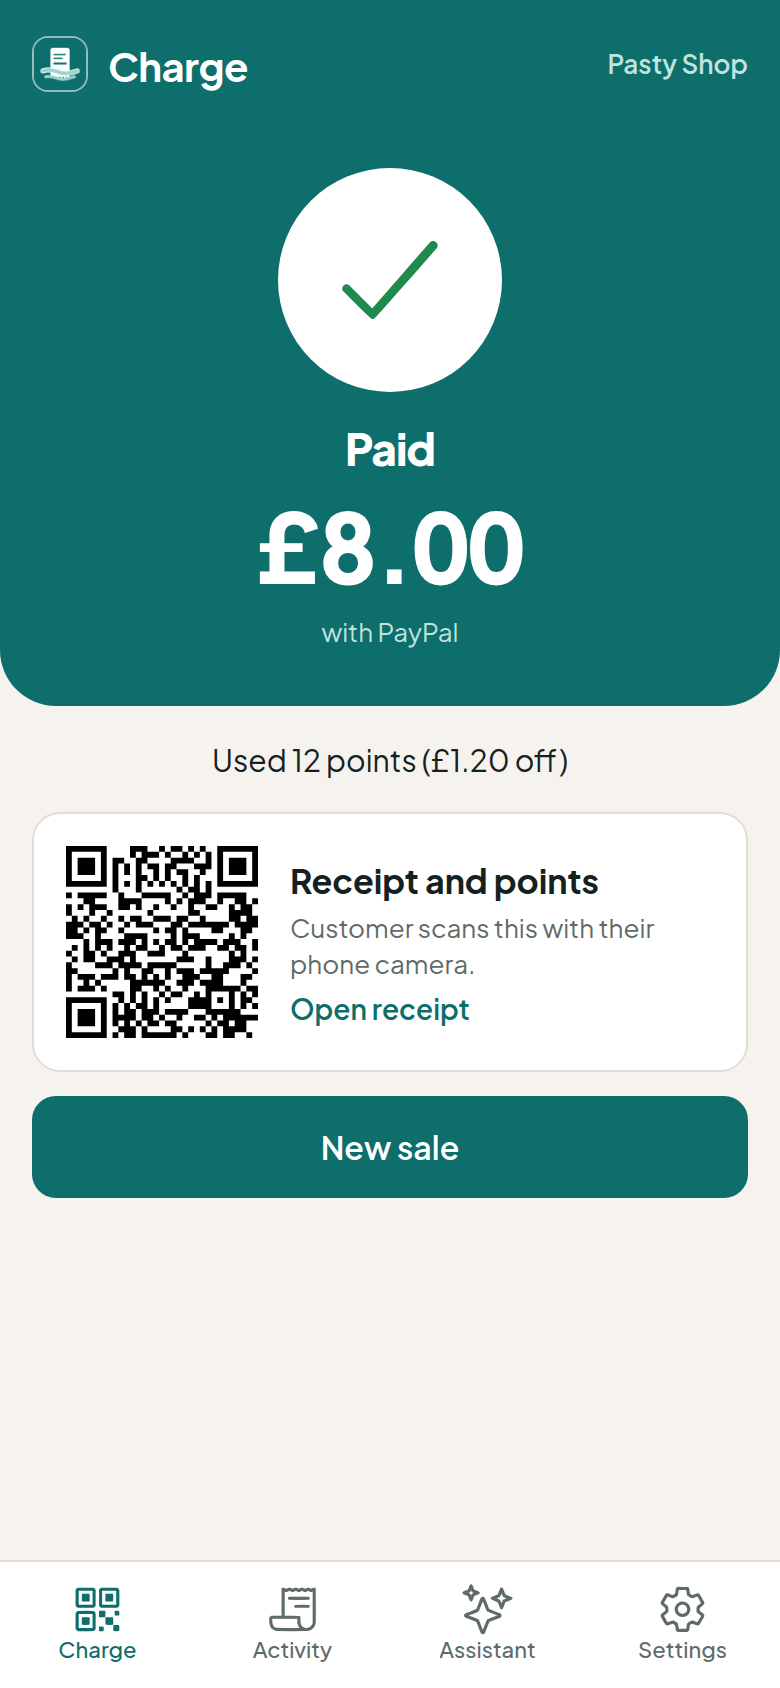
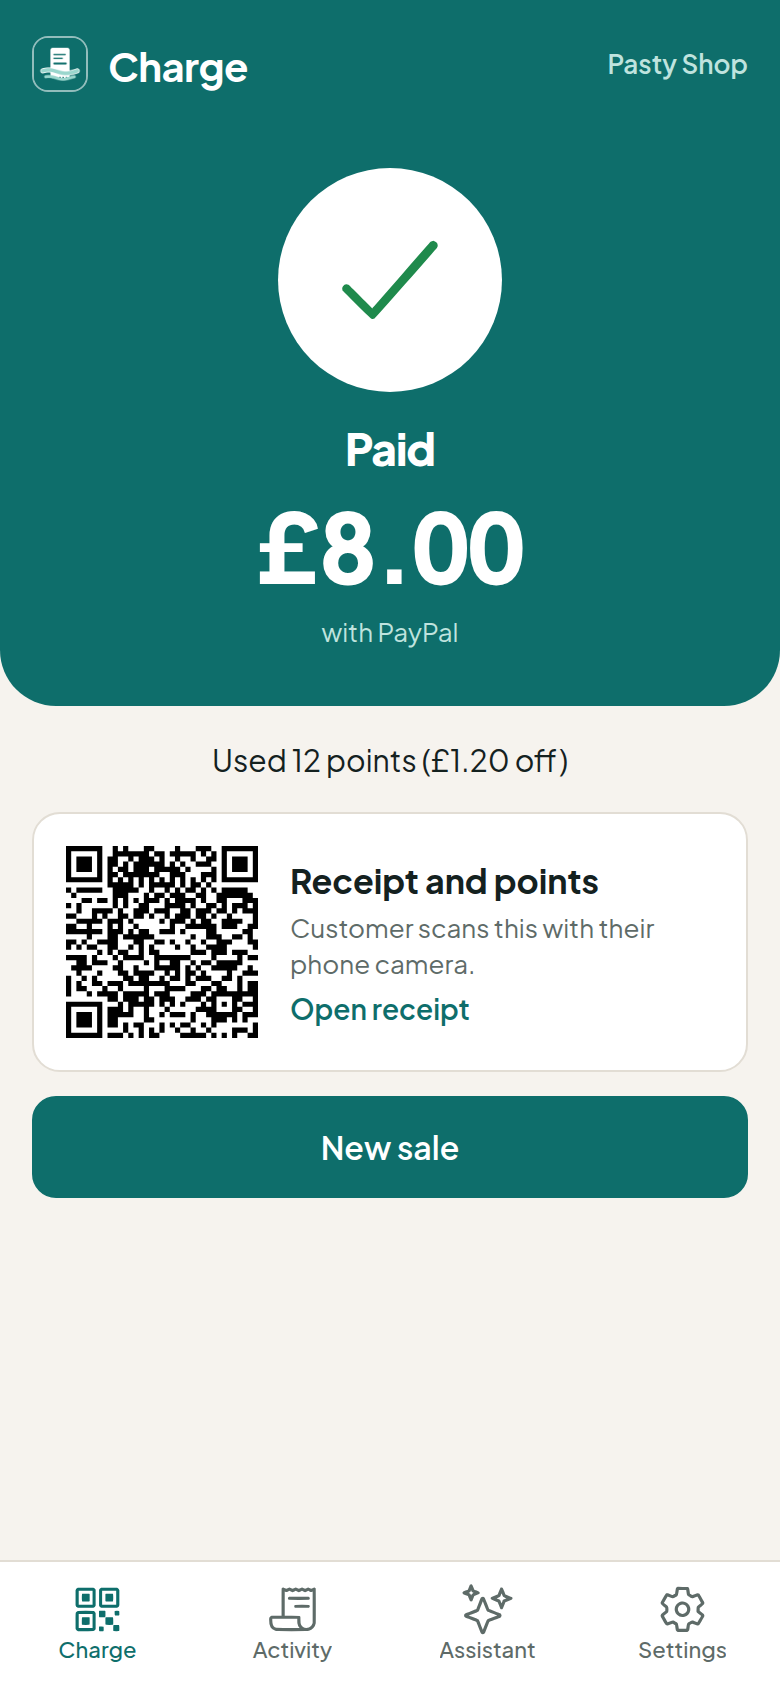
Second review: fix regressions in yesterday's fixes; demo and docs
- A points sale whose money arrived is always recorded as paid; if the
  points were spent twice at the same moment, only what was left counts
  and the owner is alerted (it used to stay failed forever).
- Report notes have their own allowance (3 per shop per day) instead of
  using the owner's assistant questions; a changed report past the cap
  drops its note rather than quote old figures.
- Cancel keeps the screen when PayPal is still reviewing the payment.
- iPhone: only a dead wallet session is forgotten, not one the owner
  switched away from; a connect whose reply relaunches the app finishes.
- Sweep start takes a per-shop lock; PATCH /shop no longer writes back a
  stale owner wallet; a shop refresh after sign-out is ignored.
- Demo: each request is paid at most twice its amount in total.
- Landing page links the live demo and says it runs on any phone; fresh
  Devpost screenshots; demo script ends on the demo URL.

Changed region(s): [[0.0615, 0.4929, 0.3385, 0.6161]]

diff --git a/agent/src/services/reports.ts b/agent/src/services/reports.ts
@@ -1,5 +1,4 @@
 import Anthropic from '@anthropic-ai/sdk'
-import { reserveAgentRequest } from './usage'
 import { alert } from '../alerts'
 import { config } from '../config'
 import { sql, type MerchantRow } from '../db'
@@ -60,12 +59,18 @@ export function reportText(s: Summary, r: Reconciliation | null): string {
   return lines.join(' ')
 }
 
+/** Claude notes per shop per day: the first report, plus a couple of refreshes after late sales. */
+const NOTES_PER_DAY = 3
+
 /** A short, friendly note from Claude on top of the facts. Optional: skipped without an API key. */
 async function narrativeFor(merchant: MerchantRow, text: string, summary: Summary): Promise<string | null> {
   // Nothing to say on a day with no sales, and every shop gets a report: skip the call, and its cost.
   if (!process.env.ANTHROPIC_API_KEY || summary.paidCount === 0) return null
-  // Counts against the assistant's daily caps, so rewrites can't run up the bill.
-  if (!(await reserveAgentRequest(merchant).then(() => true, () => false))) return null
+  // On a server with a global cap (the public demo), notes stop once the day's questions are used up.
+  if (config.agent.globalDailyLimit !== null) {
+    const [used] = await sql<{ n: number }[]>`select coalesce(sum(requests), 0)::int as n from agent_usage where day = current_date`
+    if (used!.n >= config.agent.globalDailyLimit) return null
+  }
   try {
     const client = new Anthropic({ timeout: 60_000, maxRetries: 1 })
     const isHaiku = config.agent.model.startsWith('claude-haiku')
@@ -101,20 +106,22 @@ export async function writeDailyReport(merchant: MerchantRow, date: string): Pro
   if (unexplained > 0) {
     void alert(`unexplained:${merchant.id}:${date}`, `${merchant.name}: ${unexplained} transfer(s) in the till on ${date} that Tilltide didn't take`)
   }
-  // A rewrite whose facts haven't changed keeps its note.
-  const [previous] = await sql<{ text: string; narrative: string | null }[]>`
-    select text, narrative from daily_reports where merchant_id = ${merchant.id} and day = ${date}`
-  const narrative =
-    previous && previous.text === text
-      ? previous.narrative
-      : await narrativeFor(merchant, text, summary)
+  // A rewrite whose facts haven't changed keeps its note. Notes have their own small allowance, separate
+  // from the owner's assistant questions, so a busy evening of late sales can't use those up.
+  const [previous] = await sql<{ text: string; narrative: string | null; narrativeCount: number }[]>`
+    select text, narrative, narrative_count from daily_reports where merchant_id = ${merchant.id} and day = ${date}`
+  const count = previous?.narrativeCount ?? 0
+  const fresh = previous?.text === text || count >= NOTES_PER_DAY ? null : await narrativeFor(merchant, text, summary)
+  // Past the allowance, a changed report drops its note rather than keep one quoting old figures.
+  const narrative = fresh ?? (previous?.text === text ? previous.narrative : null)
+  const notes = count + (fresh ? 1 : 0)
   const stored = { summary, reconciliation }
   const json = JSON.stringify(stored, (_, v) => (typeof v === 'bigint' ? v.toString() : v))
   const [row] = await sql<{ createdAt: Date }[]>`
-    insert into daily_reports (merchant_id, day, summary, text, narrative)
-    values (${merchant.id}, ${date}, ${json}::jsonb, ${text}, ${narrative})
+    insert into daily_reports (merchant_id, day, summary, text, narrative, narrative_count)
+    values (${merchant.id}, ${date}, ${json}::jsonb, ${text}, ${narrative}, ${notes})
     on conflict (merchant_id, day) do update set summary = excluded.summary, text = excluded.text,
-      narrative = excluded.narrative, created_at = now()
+      narrative = excluded.narrative, narrative_count = excluded.narrative_count, created_at = now()
     returning created_at`
   return { date, text, narrative, summary, reconciliation, createdAt: row!.createdAt.toISOString() }
 }

diff --git a/apps/seeker-app/features/wallet/wallet.ios.tsx b/apps/seeker-app/features/wallet/wallet.ios.tsx
@@ -31,6 +31,7 @@ import {
   transactionPayload,
   WalletRejected,
   fromB58,
+  toB58,
   type DeeplinkSession,
   type DeeplinkWallet,
 } from './deeplink-protocol'
@@ -40,6 +41,8 @@ const CHAIN = AppConfig.chain
 // Phantom and Solflare name mainnet 'mainnet-beta'.
 const CLUSTER = AppConfig.cluster === 'mainnet' ? 'mainnet-beta' : 'devnet'
 const STORAGE_KEY = 'tilltide:ios-wallet'
+/** A connect waiting for the wallet's reply, kept so a reply that relaunches the app can still finish it. */
+const CONNECTING_KEY = 'tilltide:ios-wallet-connecting'
 
 /** Where the wallet sends the owner back to; app/wallet-callback/[method].tsx returns them to where they were. */
 const redirectFor = (method: string) => Linking.createURL(`wallet-callback/${method}`)
@@ -63,6 +66,21 @@ export function WalletProvider({ children }: PropsWithChildren) {
     AsyncStorage.getItem(STORAGE_KEY)
       .then((raw) => raw && setSession(JSON.parse(raw)))
       .catch(() => {})
+    // iOS may close Tilltide while the owner is in the wallet; its reply then relaunches the app. Finish
+    // the connect from that reply, so the owner only has to tap Sign in again to sign.
+    Promise.all([Linking.getInitialURL(), AsyncStorage.getItem(CONNECTING_KEY)])
+      .then(async ([url, raw]) => {
+        const m = url?.match(/wallet-callback\/connect\??(.*)$/)
+        if (!m || !raw) return
+        const { wallet: name, dappSecret } = JSON.parse(raw) as { wallet: string; dappSecret: string }
+        const wallet = DEEPLINK_WALLETS.find((w) => w.name === name)
+        if (!wallet) return
+        const s = readConnect(wallet, fromB58(dappSecret), new URLSearchParams(m[1]))
+        setSession(s)
+        await AsyncStorage.setItem(STORAGE_KEY, JSON.stringify(s))
+      })
+      .catch(() => {})
+      .finally(() => AsyncStorage.removeItem(CONNECTING_KEY).catch(() => {}))
   }, [])
 
   useEffect(() => {
@@ -161,12 +179,14 @@ export function useWallet(): TilltideWallet {
         if (!s) {
           const wallet = await choose()
           const keys = newEncryptionKeypair()
+          await AsyncStorage.setItem(CONNECTING_KEY, JSON.stringify({ wallet: wallet.name, dappSecret: toB58(keys.secretKey) }))
           const reply = await call(
             connectUrl(wallet, { dappPublicKey: keys.publicKey, appUrl: AppConfig.identity.uri, redirect: redirectFor('connect'), cluster: CLUSTER }),
             'connect',
           )
           s = readConnect(wallet, keys.secretKey, reply)
           await save(s)
+          await AsyncStorage.removeItem(CONNECTING_KEY)
         }
         // These wallets have no Sign In With Solana request over deeplinks, so sign the same text as a message.
         const text =
@@ -178,9 +198,11 @@ export function useWallet(): TilltideWallet {
           const { signature } = readReply<{ signature: string }>(s, reply)
           return { address: s.address, signedMessage, signature: fromB58(signature) }
         } catch (e) {
-          // Anything but the owner saying no (4001) means the saved connection is dead, e.g. the wallet
-          // was reinstalled or Tilltide was removed from it. Forget it so the next try connects afresh.
-          if (!(e instanceof WalletRejected && e.code === '4001')) await save(null)
+          // Forget the saved connection only when it's dead: the wallet no longer knows this session (it was
+          // reinstalled, or Tilltide was removed from it) or its reply can't be read. Not when the owner says
+          // no, takes too long, or switches back by hand: that would sign the till out mid-shift.
+          const dead = (e instanceof WalletRejected && (e.code === '4100' || e.code === '4900')) || (e instanceof Error && /Could not read the wallet reply/.test(e.message))
+          if (dead) await save(null)
           throw e
         }
       },

diff --git a/agent/src/services/payments.ts b/agent/src/services/payments.ts
@@ -209,24 +209,29 @@ export async function markPaymentPaid(
   result: Extract<VerifiedPayment, { ok: true }>,
   redemption: { pointsRedeemed: bigint; discount: bigint } = { pointsRedeemed: 0n, discount: 0n },
 ) {
-  const mark = (tx: typeof sql) => tx`
+  const mark = (tx: typeof sql, r: typeof redemption) => tx`
     update payments set status = 'paid', signature = ${result.signature}, payer = ${result.payer}, paid_at = now(),
-      failure_reason = null, points_redeemed = ${redemption.pointsRedeemed.toString()}, discount = ${redemption.discount.toString()}
+      failure_reason = null, points_redeemed = ${r.pointsRedeemed.toString()}, discount = ${r.discount.toString()}
     where id = ${payment.id} and status in ('pending', 'expired', 'failed') returning id`
-  if (redemption.pointsRedeemed === 0n || !result.payer) return (await mark(sql)).length > 0
+  if (redemption.pointsRedeemed === 0n || !result.payer) return (await mark(sql, redemption)).length > 0
   // A points sale: check the customer's points here again under a lock, so two sales verified at the same
-  // moment (watcher and till) can't both spend the same points.
-  return sql.begin(async (tx) => {
+  // moment (watcher and till) can't both spend the same points. The money has already arrived, so the sale
+  // is always recorded; if the points were spent twice, only what was left counts and the owner is told.
+  const over = await sql.begin(async (tx) => {
     await tx`select pg_advisory_xact_lock(hashtext(${`${payment.merchantId}:${result.payer}`}))`
     const allowed = await shopPointsBalance(payment.merchantId, result.payer!, payment.id, tx as never)
-    if (redemption.pointsRedeemed > allowed) {
-      await tx`
-        update payments set failure_reason = 'Those points were spent on another sale at the same time'
-        where id = ${payment.id} and status = 'pending'`
-      return false
-    }
-    return (await mark(tx as never)).length > 0
+    const points = redemption.pointsRedeemed > allowed ? allowed : redemption.pointsRedeemed
+    const discount = (redemption.discount * points) / redemption.pointsRedeemed
+    const marked = await mark(tx as never, { pointsRedeemed: points, discount })
+    return marked.length ? redemption.discount - discount : null
   })
+  if (over && over > 0n) {
+    void alert(
+      `points-overspend:${payment.id}`,
+      `A points sale was short by ${fromBaseUnits(over, LEDGER_DECIMALS)} ${payment.currency}: the customer's points were spent on another sale at the same moment`,
+    )
+  }
+  return over !== null
 }
 
 /** Something arrived with the reference but isn't a valid payment. Stays pending (the customer can still pay) until expiry. */

diff --git a/agent/scripts/sandbox.ts b/agent/scripts/sandbox.ts
@@ -165,6 +165,11 @@ app.post('/sandbox/airdrop', async (c) => {
 /** Largest single payment the test customer makes, so the shared balance can't be emptied in one go. */
 const MAX_TEST_PAYMENT = 500_000_000n // 500 tokens
 const TOP_UP = 1_000_000_000n // 1000 tokens
+/**
+ * What the test customer has paid towards each request. Each payment is at most the amount asked, and
+ * the total at most twice that: enough to show a short payment ("pay half") followed by a full one.
+ */
+const paidTowards = new Map<string, bigint>()
 
 /** Keeps the shared test customer funded, so a busy day of judges (or a stranger) can't empty it. */
 async function topUp(mint: Address, program: Address) {
@@ -199,7 +204,11 @@ app.post('/sandbox/pay', async (c) => {
       where p.status = 'pending' and p.rail = 'solana' and p.reference = any(${req.references.map(String)})`
     if (!open || open.till !== req.recipient) return c.json({ error: 'No open payment request matches this link' }, 400)
     const pay = toBaseUnits(amount ?? req.amount!, 6)
-    if (pay <= 0n || pay > BigInt(open.expected) || pay > MAX_TEST_PAYMENT) return c.json({ error: 'The test customer only pays up to the amount asked' }, 400)
+    const ref = String(req.references[0])
+    const already = paidTowards.get(ref) ?? 0n
+    if (pay <= 0n || pay > BigInt(open.expected) || already + pay > 2n * BigInt(open.expected) || pay > MAX_TEST_PAYMENT) {
+      return c.json({ error: already ? 'The test customer has already paid this request' : 'The test customer only pays up to the amount asked' }, 400)
+    }
     const mint = req.splToken!
     if (mint !== USDC && mint !== PYUSD) return c.json({ error: 'The test customer only holds USDC and PYUSD' }, 400)
     const program = mint === PYUSD ? TOKEN_2022 : TOKEN
@@ -219,6 +228,7 @@ app.post('/sandbox/pay', async (c) => {
       await getCreateAssociatedTokenIdempotentInstructionAsync({ payer: customer, owner: req.recipient, mint, tokenProgram: program }),
       { ...transfer, accounts: [...transfer.accounts, ...req.references.map((r) => ({ address: r, role: AccountRole.READONLY }))] },
     ])
+    paidTowards.set(ref, already + pay)
     return c.json({ ok: true, signature, customer: customer.address })
   } catch (err) {
     return c.json({ error: err instanceof Error ? err.message : String(err) }, 400)

diff --git a/agent/src/services/sweeps.ts b/agent/src/services/sweeps.ts
@@ -112,13 +112,18 @@ export async function beginSweep(merchant: MerchantRow, id: string, lastValidBlo
   const others = await sql<SweepRow[]>`
     select * from sweeps where merchant_id = ${merchant.id} and id <> ${id} and status in ('signing', 'submitted')`
   for (const other of others) await settleSweep(merchant, other)
-  const [row] = await sql<SweepRow[]>`
-    update sweeps set status = 'signing', signing_valid_until = ${lastValidBlockHeight.toString()}, error = null
-    where id = ${id} and merchant_id = ${merchant.id} and status in ('proposed', 'cancelled')
-      and not exists (
-        select 1 from sweeps other where other.merchant_id = ${merchant.id} and other.id <> ${id}
-          and other.status in ('signing', 'submitted'))
-    returning *`
+  // Under a per-shop lock, so two of these at once (two phones, two tabs) can't both pass the check.
+  const row = await sql.begin(async (tx) => {
+    await tx`select pg_advisory_xact_lock(hashtext(${`sweep:${merchant.id}`}))`
+    const [updated] = await tx<SweepRow[]>`
+      update sweeps set status = 'signing', signing_valid_until = ${lastValidBlockHeight.toString()}, error = null
+      where id = ${id} and merchant_id = ${merchant.id} and status in ('proposed', 'cancelled')
+        and not exists (
+          select 1 from sweeps other where other.merchant_id = ${merchant.id} and other.id <> ${id}
+            and other.status in ('signing', 'submitted'))
+      returning *`
+    return updated
+  })
   if (!row) {
     const [busy] = await sql`select 1 from sweeps where merchant_id = ${merchant.id} and id <> ${id} and status in ('signing', 'submitted')`
     throw new SweepError(busy ? 'Another transfer to the owner is still in progress. Try again when it has finished.' : 'Sweep changed meanwhile; try again')

diff --git a/agent/public/index.html b/agent/public/index.html
@@ -71,7 +71,7 @@
         <p class="lead">A phone on your counter takes PayPal, cards, wallets and cash. Every customer earns loyalty points. At closing time, your day is written up for you.</p>
         <div class="ctas">
           <a class="btn btn-light" href="mailto:info@bytez3.com?subject=Tilltide%20pilot">Join the Cornwall pilot</a>
-          <a class="btn btn-ghost" href="#how">See how it works</a>
+          <a class="btn btn-ghost" href="https://demo.tilltide.bytez3.com">Try the live demo</a>
         </div>
         <div class="pills"><span class="pill">0.5% fee</span><span class="pill">No card reader to buy</span><span class="pill">You approve every payout</span></div>
       </div>
@@ -83,7 +83,7 @@
 <main class="wrap">
   <section>
     <h2>Built for small shops</h2>
-    <p class="sub">Cafés, bakeries, market stalls and gift shops. Everything you need at the counter and after closing, on the phone you already have.</p>
+    <p class="sub">Cafés, bakeries, market stalls and gift shops. Everything you need at the counter and after closing, on the phone you already have: iPhone, Android or a Solana Seeker, or in the browser at <a href="/app/">tilltide.bytez3.com/app</a>.</p>
     <div class="grid3">
       <div class="card"><div class="icon t3">£</div><h3>Every way to pay</h3><p>PayPal or card by scanning a QR code, straight into your own PayPal. Wallet payments in PYUSD or USDC. Cash and your old card reader are recorded too, with change worked out.</p></div>
       <div class="card"><div class="icon t2">♥</div><h3>Loyalty, built in</h3><p>Every customer earns points automatically. No stamp cards, no app to download. They spend them with the code on their receipt.</p></div>

diff --git a/agent/test/e2e/run.ts b/agent/test/e2e/run.ts
@@ -793,6 +793,20 @@ async function main() {
       assert.equal(body.summary.pointsRedeemed, '9')
       assert.equal(body.summary.pointsDiscount, '0.9')
       assert.equal((await api('POST', '/shop/payments', { amount: '1', rail: 'paypal', usePoints: true }, tillToken)).status, 400)
+
+      // Two sales verified at the same moment both spending the same points: the money that arrived is
+      // still recorded, only the points the customer had left are honoured, and the owner is told.
+      const { markPaymentPaid } = await import('../../src/services/payments')
+      const race = await api('POST', '/shop/payments', { amount: '2.00', usePoints: true }, tillToken)
+      const raceRow = (await sql<any[]>`select * from payments where id = ${race.body.id}`)[0]
+      const { shopPointsBalance } = await import('../../src/services/redeem')
+      const left = await shopPointsBalance(raceRow.merchantId, customer.address, race.body.id)
+      const recorded = await markPaymentPaid(raceRow, { ok: true, signature: `race${'1'.repeat(84)}`, payer: customer.address } as never, { pointsRedeemed: 50n, discount: 500_000n })
+      assert.equal(recorded, true)
+      const raced = (await sql<any[]>`select status, points_redeemed from payments where id = ${race.body.id}`)[0]
+      assert.equal(raced.status, 'paid')
+      assert.equal(BigInt(raced.pointsRedeemed), left, 'only the points left are counted')
+      await sql`update payments set status = 'failed' where id = ${race.body.id}`
     })
 
     await step('PayPal first: a shop must connect its own PayPal; a forged onboarding return is ignored', async () => {

diff --git a/apps/seeker-app/features/merchant/merchant-provider.tsx b/apps/seeker-app/features/merchant/merchant-provider.tsx
@@ -106,10 +106,16 @@ export function MerchantProvider({ children }: PropsWithChildren) {
   const signedIn = !!merchant
   useEffect(() => {
     if (!signedIn) return
-    const refreshShop = () => api.getShop().then(setMerchant).catch(() => {})
+    let stopped = false
+    // A refresh that finishes after sign-out mustn't bring the till back.
+    const refreshShop = () => api.getShop().then((shop) => !stopped && setMerchant(shop)).catch(() => {})
     const sub = AppState.addEventListener('change', (state) => state === 'active' && refreshShop())
     const timer = setInterval(refreshShop, 5 * 60_000)
-    return () => (sub.remove(), clearInterval(timer))
+    return () => {
+      stopped = true
+      sub.remove()
+      clearInterval(timer)
+    }
   }, [signedIn])
 
   const approveOwnerWallet = useCallback(

diff --git a/apps/seeker-app/app/(tabs)/index.tsx b/apps/seeker-app/app/(tabs)/index.tsx
@@ -165,6 +165,12 @@ export default function ChargeScreen() {
       const latest = await api.cancelPayment(payment.id)
       // It was paid a moment ago: show that instead of clearing it.
       if (latest.status === 'paid') return setPayment({ ...latest, url: payment.url })
+      // PayPal is reviewing a payment the customer already made: it can't be cancelled, and clearing the
+      // screen could lead to charging them twice.
+      if (latest.status === 'pending') {
+        setPayment({ ...latest, url: payment.url })
+        return setError('PayPal is reviewing this payment, so it can’t be cancelled. Keep this screen open; it updates when PayPal finishes.')
+      }
     } catch {
       // Offline: clear the screen anyway; the request still expires by itself.
     }

diff --git a/agent/src/app.ts b/agent/src/app.ts
@@ -404,7 +404,7 @@ shop.patch('/', async (c) => {
   const [row] = await sql<MerchantRow[]>`
     update merchants set
       name = ${input.name ?? merchant.name},
-      owner_wallet = ${input.ownerWallet === undefined ? merchant.ownerWallet : input.ownerWallet},
+      owner_wallet = ${input.ownerWallet === null ? null : sql`owner_wallet`},
       token_symbol = ${input.token ?? merchant.tokenSymbol},
       points_per_unit = ${input.pointsPerUnit ?? merchant.pointsPerUnit},
       point_value = ${input.pointValue !== undefined ? toBaseUnits(input.pointValue, LEDGER_DECIMALS).toString() : merchant.pointValue.toString()},

diff --git a/docs/submission/DEMO-SCRIPT.md b/docs/submission/DEMO-SCRIPT.md
@@ -18,9 +18,11 @@ The rules cap the video at 3 minutes. Record on a phone (or the browser sandbox 
 | 6 | 1:25–1:55 | Agent tab: "What did I take today, and what sold best?" → answer with the PayPal and wallet split and the top items. Then "Refund the cream tea, the scone was cold" → refund card | "At the end of the day I just ask. Claude reads the ledger and reconciles PayPal and wallet together. It can even set up a refund, but it can't move money by itself." |
 | 7 | 1:55–2:15 | Tap **Approve with wallet**; the wallet prompt shows the exact refund wording; sign; **Refunded ✓** | "I approve by signing the exact refund with my wallet. Only then does Tilltide refund through PayPal, safely, so it can never refund twice." |
 | 8 | 2:15–2:30 | Activity: the end-of-day card with Claude's note; tap **Export CSV** | "At closing time it writes my end-of-day report, and my bookkeeper gets a CSV." |
-| 9 | 2:30–2:45 | Settings → Staff devices; pair a second phone with a code | "Staff can take payments on their own phone, but only the owner can move money. Tilltide: PayPal at the counter, AI in the back office, the owner in charge." |
+| 9 | 2:30–2:45 | Settings → Staff devices; pair a second phone with a code. Quick cut: the same till on an iPhone and in a browser. End card: **demo.tilltide.bytez3.com** | "Staff can take payments on their own phone, but only the owner can move money. It runs on a Seeker, any Android, an iPhone or a browser. Tilltide: PayPal at the counter, AI in the back office, the owner in charge." |
 
-**Captions to add:** "PayPal Partner Referrals", "Orders v2 + platform fees", "Payments v2 refund", "PYUSD", "Claude tool use".
+**Captions to add:** "PayPal Partner Referrals", "Orders v2 + platform fees", "Payments v2 refund", "PYUSD", "Claude tool use", and on the end card "Try it: demo.tilltide.bytez3.com".
+
+**No music unless it's licensed for this use** (the rules forbid unlicensed music and third-party trademarks beyond the PayPal and Solana names needed to explain the integration). Upload to YouTube as **Public** (not Unlisted), then paste the link into `SUBMISSION.md` and Devpost.
 
 **Screenshots for Devpost:** ready-made in [`screenshots/`](screenshots), captured from the sandbox at phone size:
 - the till on PayPal, the PayPal QR, and Paid ✓
